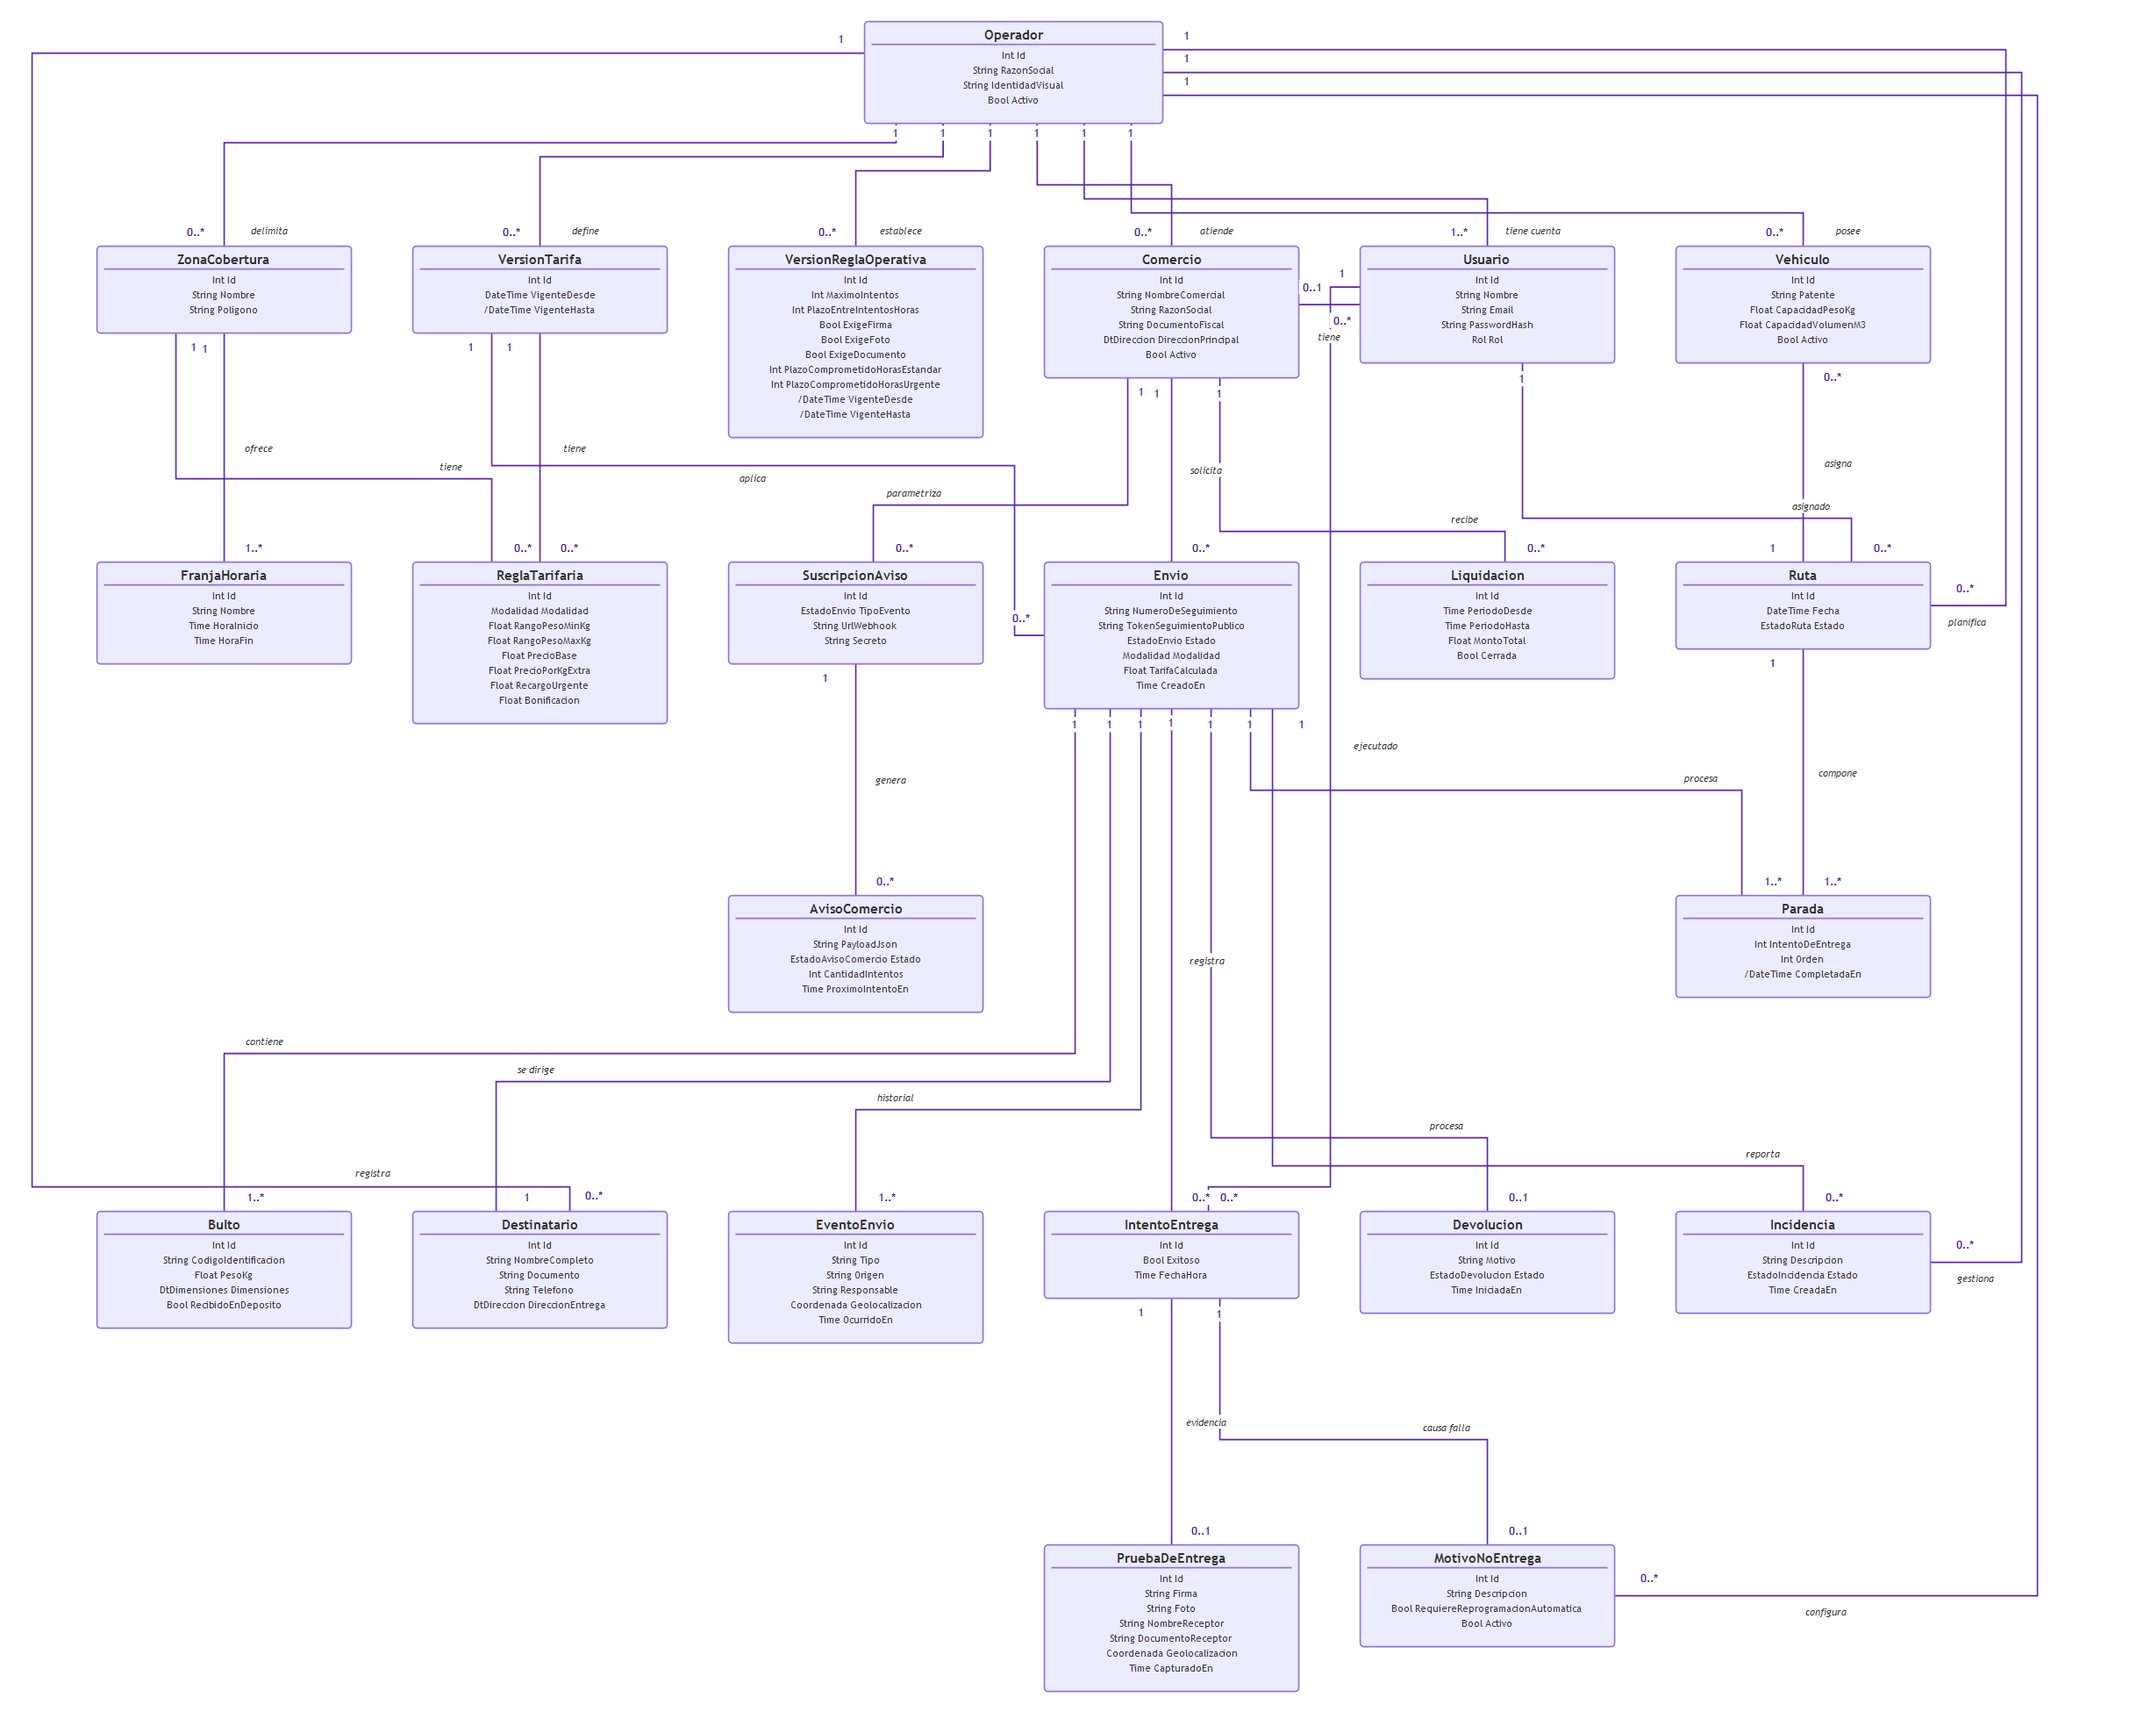
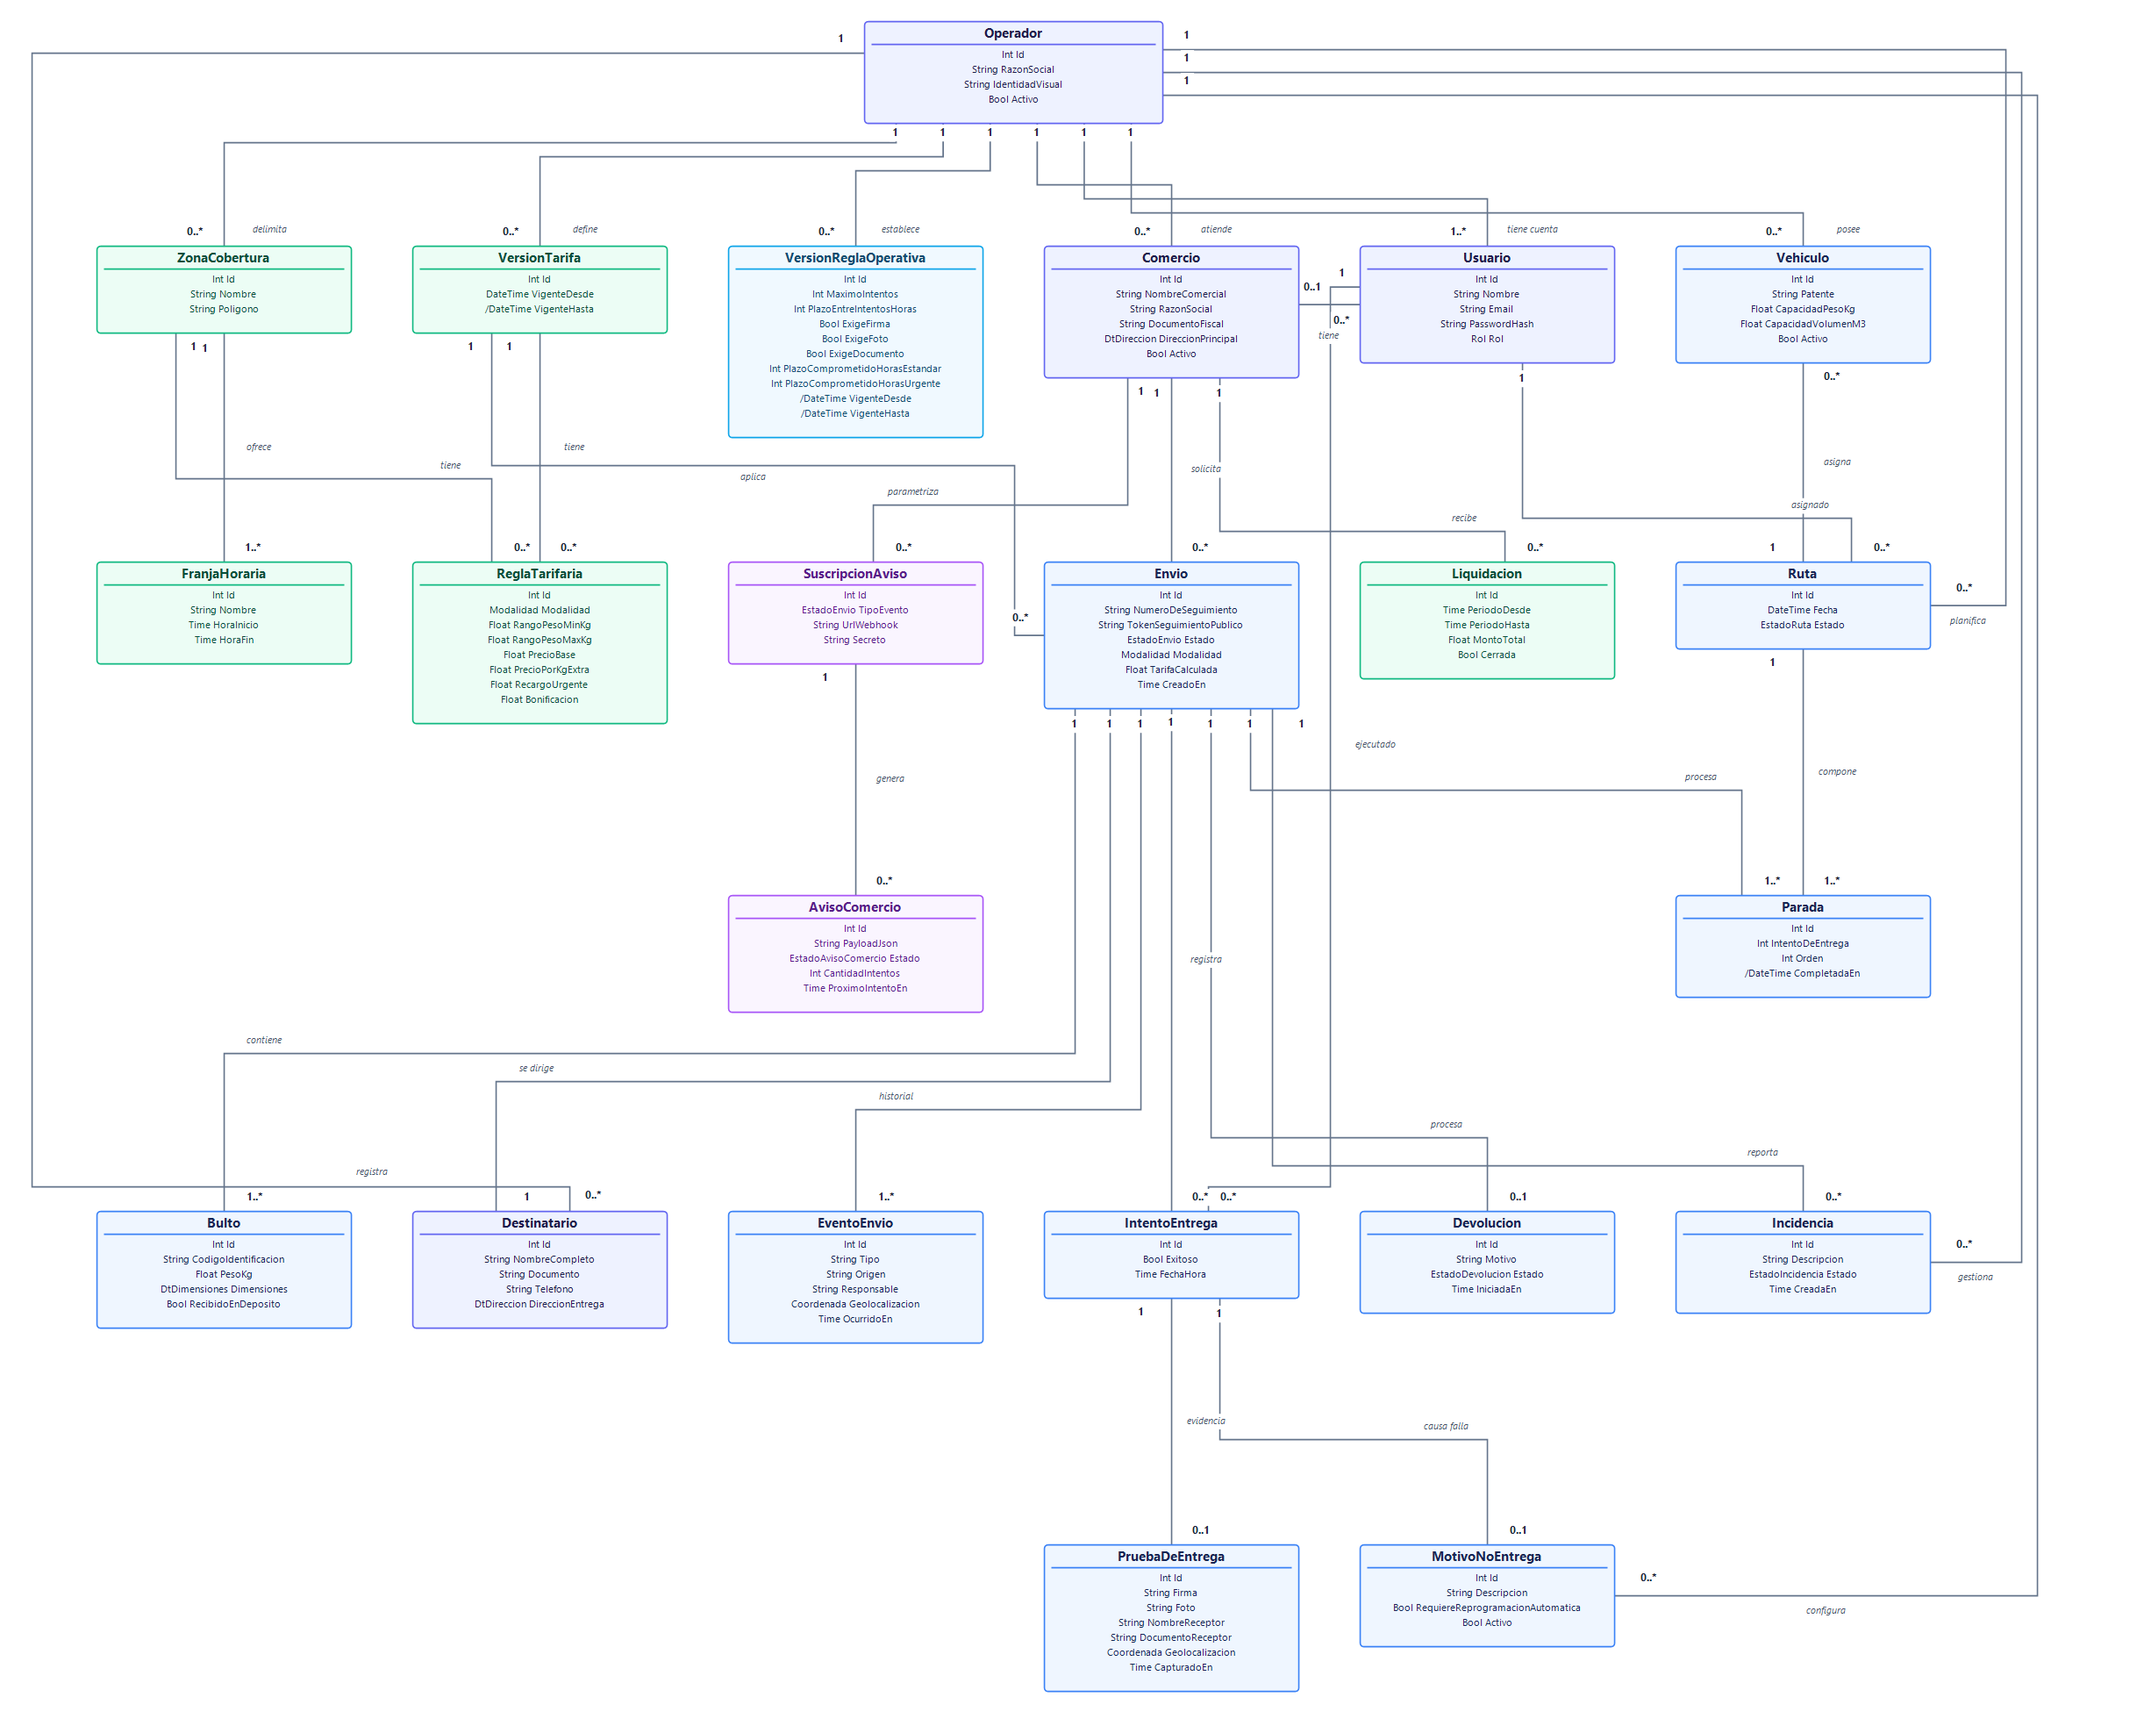
colores en el modelado de dominio

diff --git a/NET/infraestructura.html b/NET/infraestructura.html
@@ -125,8 +125,12 @@
           '<strong>Líneas continuas:</strong> uso y llamadas. <strong>Líneas punteadas:</strong> eventos asíncronos (outbox y colas).' },
       dominio: { src: 'dominio.png', alt: 'Diagrama de clases del modelado de dominio: cada relación es una línea y la cardinalidad está junto a cada entidad',
         leyenda: [
-          ['#9370DB', 'Clase', 'borde', '#ECECFF'],
-          ['#5b21b6', 'Relación']
+          ['#6366f1', 'Operador, comercio y usuarios'],
+          ['#3b82f6', 'Envío, ruta y entrega'],
+          ['#10b981', 'Cobertura, tarifas y liquidación'],
+          ['#0ea5e9', 'Reglas operativas'],
+          ['#a855f7', 'Avisos al comercio'],
+          ['#64748b', 'Relación']
         ],
         nota: 'Cada línea une dos clases. El número pegado a cada caja es la cardinalidad de ese extremo y el texto en cursiva es el verbo. ' +
           '<strong>0..*</strong> es muchos opcionales, <strong>1..*</strong> es al menos uno y <strong>0..1</strong> es opcional.' }
